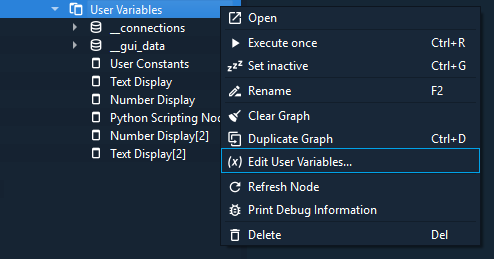
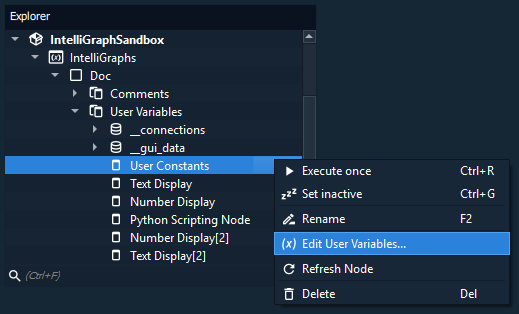
updated some images, updated the alt description

diff --git a/docs/user/workflows/graph-based/03_user_variables.rst b/docs/user/workflows/graph-based/03_user_variables.rst
@@ -15,12 +15,12 @@ To edit the user variables of a graph, right-click the object of the root graph 
    
 .. image:: ../images/workflows_user_variables_context_menu_light.png
    :align: center
-   :alt: Stlying a comment
+   :alt: Opening the graph user variables dialog on the root graph
    :class: only-light
    
 .. image:: ../images/workflows_user_variables_context_menu_dark.png
    :align: center
-   :alt: Stlying a comment
+   :alt: Opening the graph user variables dialog on the root graph
    :class: only-dark
    
 A dialog is opened, in which user variables may be added or edited.
@@ -39,12 +39,12 @@ Unchecking a user variable and saving will cause the user variable to be deleted
 
 .. image:: ../images/workflows_user_variables_dialog_light.png
    :align: center
-   :alt: Stlying a comment
+   :alt: The graph user variables dialog
    :class: only-light
    
 .. image:: ../images/workflows_user_variables_dialog_dark.png
    :align: center
-   :alt: Stlying a comment
+   :alt: The graph user variables dialog
    :class: only-dark
 
 Using User Variables
@@ -62,12 +62,13 @@ Editing the user variables causes the node to automatically update.
 
 .. image:: ../images/workflows_user_variables_node_light.png
    :align: center
+   :alt: Accessing the user variables using the User Constants node
    :alt: Stlying a comment
    :class: only-light
    
 .. image:: ../images/workflows_user_variables_node_dark.png
    :align: center
-   :alt: Stlying a comment
+   :alt: Accessing the user variables using the User Constants node
    :class: only-dark
    
 Python Scripting Node
@@ -77,10 +78,10 @@ The user variables can be accessed in a **Python Node** (see :ref:`Scripting of 
   
 .. image:: ../images/workflows_user_variables_python_node_light.png
    :align: center
-   :alt: Stlying a comment
+   :alt: Accessing the user variables using the Python scripting node
    :class: only-light
    
 .. image:: ../images/workflows_user_variables_python_node_dark.png
    :align: center
-   :alt: Stlying a comment
+   :alt: Accessing the user variables using the Python scripting node
    :class: only-dark

diff --git a/docs/user/workflows/graph-based/01_creating_graphs.rst b/docs/user/workflows/graph-based/01_creating_graphs.rst
@@ -192,8 +192,7 @@ A dialog opens that allows to change the background color, text color, text alig
 Finally, comments can be collapsed to take up less space.
 To collapse a comment, right-click the comment and select *Collapse selected objects*.
 If a comment is linked to a single node, it will dock onto the node until it is expanded again.
-If a comment is linked to a single node, it will dock onto the node until its uncollapsed.
- 
+
 
 Subgraphs
 """""""""
